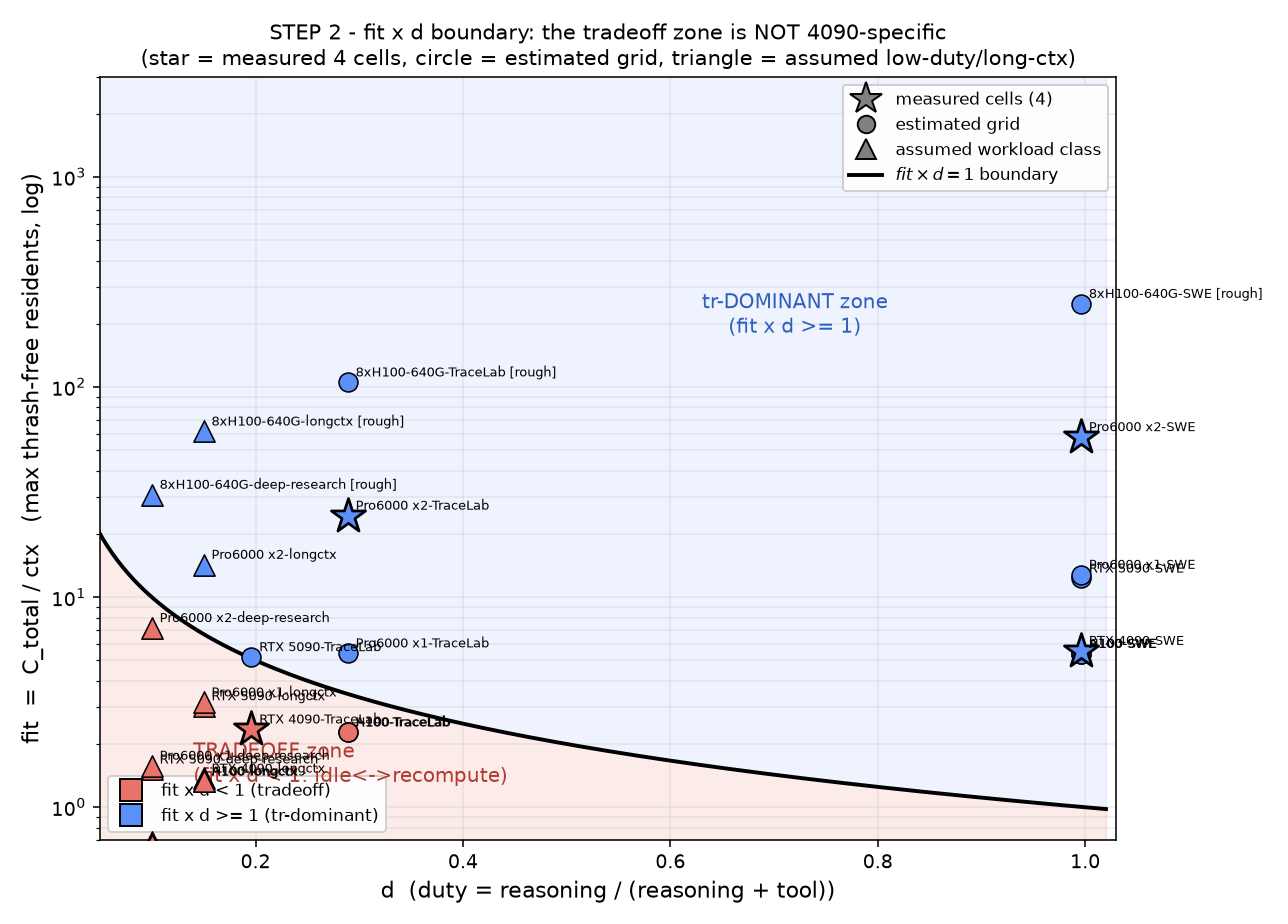
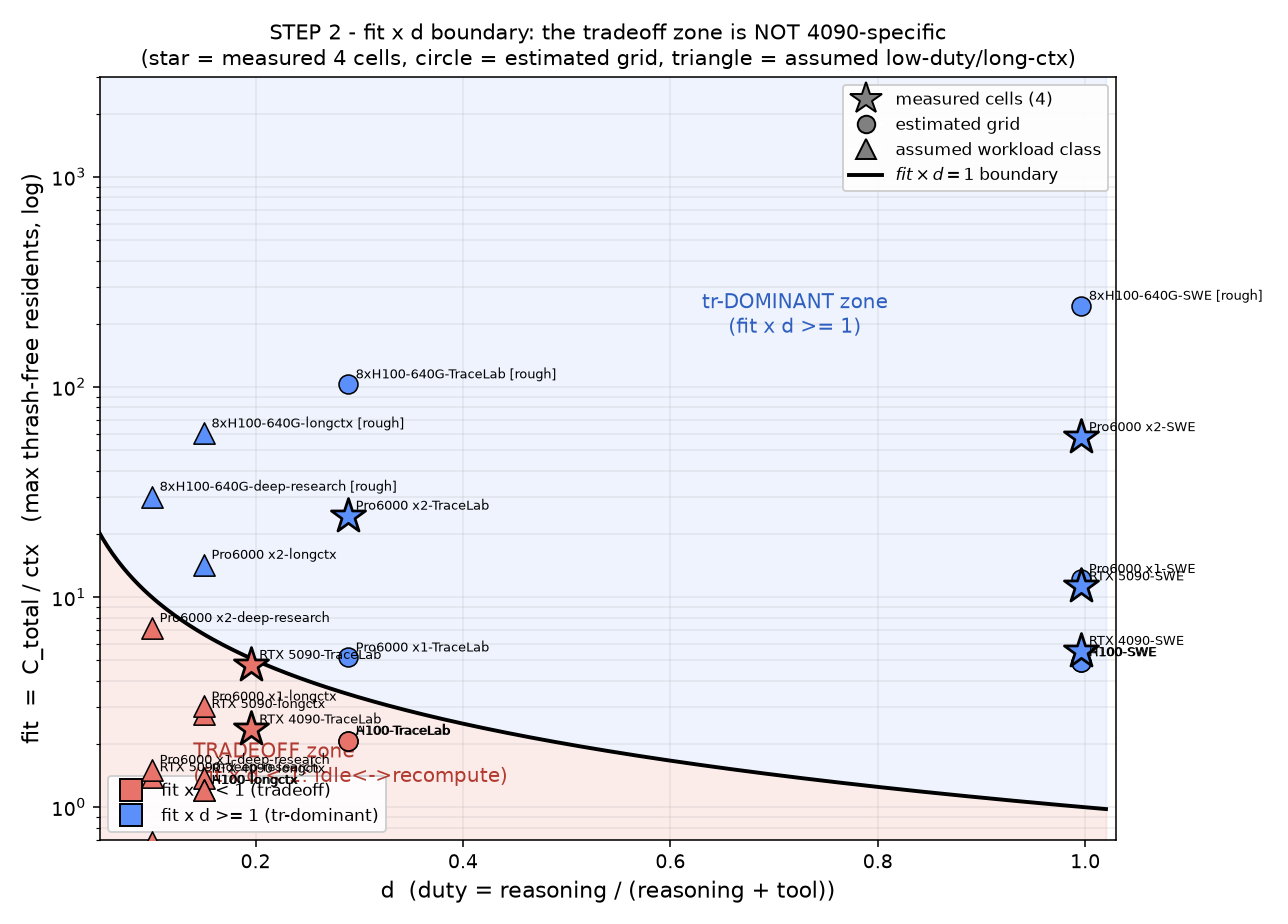
STEP 3: add --capacity-overcommit-factor knob (4 injection points + 5-hop wiring)
Implements the overcommit knob that creates a continuous axis between
tr (f=1, no overcommit) and default (f→∞, no capacity limit).
margin = (f-1)*C_total applied at 4 capacity check points:
- _select_backend_for_new_program (admission)
- _scheduled_check (pause trigger)
- _pause_until_safe (pause loop)
- _greedy_resume (resume capacity)

Gate B verified: f=1 is arithmetic NOP (bit-identical to baseline),
f=1e6 eliminates all pause (converges to default behavior).

Also updates STEP 2 grid with 5090 measured C_total=89,040 (3-cell EFF
recalibration: 0.9593→0.9471, zone cells 14→15).

diff --git a/ThunderAgent/scheduler/router.py b/ThunderAgent/scheduler/router.py
@@ -57,15 +57,16 @@ class MultiBackendRouter:
         raise ValueError(f"Unsupported backend_type: {backend_type}")
 
     def __init__(
-        self, 
-        backend_urls: str | List[str], 
-        *, 
+        self,
+        backend_urls: str | List[str],
+        *,
         profile_enabled: bool = False,
         scheduling_enabled: bool = True,
         scheduler_interval: float = 5.0,
         backend_type: str = "vllm",
         acting_token_weight: float = 1.0,
         use_acting_token_decay: bool = False,
+        capacity_overcommit_factor: float = 1.0,
     ) -> None:
         # Support single URL string or list of URLs
         if isinstance(backend_urls, str):
@@ -73,6 +74,9 @@ class MultiBackendRouter:
         
         # Weight for acting tokens in capacity calculation
         self.acting_token_weight = acting_token_weight
+
+        # Overcommit factor: margin = (f - 1) * C_total per backend
+        self.capacity_overcommit_factor = capacity_overcommit_factor
         
         # All backends (pass acting_token_weight as tool_coefficient)
         self.backends: Dict[str, BackendState] = {}
@@ -353,7 +357,9 @@ class MultiBackendRouter:
         for backend in self.backends.values():
             if not backend.healthy:
                 continue
-            if backend.remaining_capacity() < required_capacity:
+            margin = (self.capacity_overcommit_factor - 1.0) * (
+                backend.cache_config.total_tokens_capacity if backend.cache_config else 0)
+            if backend.remaining_capacity() + margin < required_capacity:
                 continue  # Not enough capacity for this program
             if backend.active_program_tokens < min_tokens:
                 min_tokens = backend.active_program_tokens
@@ -767,17 +773,20 @@ class MultiBackendRouter:
         
         # Step 3: Check thrashing and pause if needed (uses original capacity, no decay)
         for url, backend in self.backends.items():
-            if backend.cache_config and backend.remaining_capacity() < 0:
-                await self._pause_until_safe(backend)
+            if not backend.cache_config:
+                continue
+            margin = (self.capacity_overcommit_factor - 1.0) * backend.cache_config.total_tokens_capacity
+            if backend.remaining_capacity() + margin < 0:
+                await self._pause_until_safe(backend, margin)
 
-    async def _pause_until_safe(self, backend: BackendState):
+    async def _pause_until_safe(self, backend: BackendState, margin: float = 0.0):
         """Pause programs until backend is within capacity.
-        
+
         Priority: ACTING first (smallest tokens), then REASONING (smallest tokens).
         """
         paused_count = 0
-        
-        while backend.remaining_capacity() < 0:
+
+        while backend.remaining_capacity() + margin < 0:
             # Priority 1: Pause ACTING programs (smallest first)
             acting_programs = self._get_acting_programs_sorted(backend.url, ascending=True)
             if acting_programs:
@@ -832,9 +841,11 @@ class MultiBackendRouter:
         for url, backend in self.backends.items():
             if not backend.cache_config or not backend.healthy:
                 continue
+            margin = (self.capacity_overcommit_factor - 1.0) * backend.cache_config.total_tokens_capacity
             remaining = (backend.remaining_capacity_with_decay()
                          if backend.use_acting_token_decay
                          else backend.remaining_capacity())
+            remaining += margin
             if remaining > BUFFER_PER_PROGRAM:
                 backend_caps.append((backend, remaining))
                 total_capacity += remaining

diff --git a/ThunderAgent/__main__.py b/ThunderAgent/__main__.py
@@ -31,6 +31,8 @@ def main() -> int:
                         help="Weight for acting tokens in capacity calculation (default: 1.0)")
     parser.add_argument("--use-acting-token-decay", action="store_true",
                         help="Use 2^(-t) decay for acting tokens in resume capacity calculation")
+    parser.add_argument("--capacity-overcommit-factor", type=float, default=1.0,
+                        help="Overcommit factor f for capacity threshold (1.0=tr default, >1 allows overcommit, very large≈default)")
     args = parser.parse_args()
 
     # Set config BEFORE importing app
@@ -48,6 +50,7 @@ def main() -> int:
         scheduler_interval=args.scheduler_interval,
         acting_token_weight=args.acting_token_weight,
         use_acting_token_decay=args.use_acting_token_decay,
+        capacity_overcommit_factor=args.capacity_overcommit_factor,
     )
     set_config(config)
     
@@ -63,6 +66,8 @@ def main() -> int:
         print(f"⚖  Acting token weight: {args.acting_token_weight}")
         if args.use_acting_token_decay:
             print(f"📉 Acting token decay: enabled (2^-t)")
+        if args.capacity_overcommit_factor != 1.0:
+            print(f"📐 Capacity overcommit factor: {args.capacity_overcommit_factor}")
 
     # Import uvicorn here to avoid import errors if not installed
     try:

diff --git a/scripts/compute_fitd_grid_yunuikang.py b/scripts/compute_fitd_grid_yunuikang.py
@@ -45,7 +45,7 @@ MODELS = {
 # (label, model, mem_total_GB, C_total_measured or None)
 HW = [
     ("RTX 4090",         "Qwen3-8B",             24.0,  43888),    # 측정 (expC/D)
-    ("RTX 5090",         "Qwen3-8B",             32.0,  None),     # goguma 목표
+    ("RTX 5090",         "Qwen3-8B",             32.0,  89040),    # 측정 (goguma STEP1, gpu_util=0.92)
     ("Pro6000 x1",       "Qwen3-32B",            96.0,  None),
     ("Pro6000 x2 (TP2)", "Qwen3-32B",           192.0,  456944),   # 측정 (P1)
     ("A100-80G",         "Qwen3-32B",            80.0,  None),

diff --git a/ThunderAgent/config.py b/ThunderAgent/config.py
@@ -27,6 +27,7 @@ class Config:
     scheduler_interval: float = 5.0  # seconds between scheduler checks
     acting_token_weight: float = 1.0  # weight for acting tokens in capacity calculation
     use_acting_token_decay: bool = False  # use 2^(-t) decay for acting tokens in resume logic
+    capacity_overcommit_factor: float = 1.0  # overcommit factor f: margin = (f-1)*C_total
 
 
 # Global config instance (set by __main__.py before app starts)

diff --git a/ThunderAgent/app.py b/ThunderAgent/app.py
@@ -244,6 +244,7 @@ def _create_router() -> MultiBackendRouter:
         backend_type=config.backend_type,
         acting_token_weight=config.acting_token_weight,
         use_acting_token_decay=config.use_acting_token_decay,
+        capacity_overcommit_factor=config.capacity_overcommit_factor,
     )
 
 

diff --git a/logs/2026-07-19_STEPS_RESULTS_yunuikang.md b/logs/2026-07-19_STEPS_RESULTS_yunuikang.md
@@ -99,4 +99,194 @@ STEP 2 완료. 플랜 §2 재서술 + 격자·쌍곡선·4셀 정합 산출. **S
 
 ---
 
-<!-- STEP 5/6 결과는 이 아래에 append -->
+## STEP 1 — goguma 스코핑 (2×5090) ✅ 완료 · 보고 후 정지
+
+> 서버: goguma(143.248.53.112) · GPU 2×RTX5090(각 32,607 MiB) · 2026-07-19 07:53~08:10 KST
+
+### Q. 질문
+> **goguma 2×5090에서 Qwen3-8B를 기동할 수 있는가? C_total·batch-token 레짐은? 단일 vs TP2 구성과 fit×d<1 영역 진입 설계는?**
+
+### 증거 1 — 환경 확인
+
+| 항목 | 결과 | 근거 |
+|------|------|------|
+| GPU | 2×RTX5090, 각 32,607 MiB, 유휴(0%, 프로세스 없음) | `nvidia-smi` 07:53 |
+| Driver/CUDA | 580.82.07 / CUDA 13.0 | `nvidia-smi` |
+| SM | Blackwell sm_120 (5090=GB202) | driver 580 + CUDA 13.0 |
+| Python | 3.12.11 | `.venv/bin/python --version` |
+| PyTorch | 2.11.0+cu130 | `torch.__version__` |
+| vLLM | 0.24.0 | `vllm.__version__` |
+| ThunderAgent | editable install at `/home/yunuikang/yunuikang_work/distserving/` | `ThunderAgent.__file__` |
+| router.py | baseline(미수정, 초기 import 이후 변경 없음) | `git log -- ThunderAgent/scheduler/router.py` → 1 commit만 |
+| 모델 캐시 | Qwen3-8B 캐시됨 (`~/.cache/huggingface/hub/models--Qwen--Qwen3-8B`) | `ls` 확인 |
+| 환경변수 필수 | `VLLM_USE_FLASHINFER_SAMPLER=0`, `VLLM_ATTENTION_BACKEND=FLASH_ATTN`, `CPATH` 설정 | FlashInfer JIT gcc13 호환 실패(첫 시도)→환경변수 설정 후 성공 |
+
+### 증거 2 — ★ C_total 실측 (핵심)
+
+**기동 명령**: `CUDA_VISIBLE_DEVICES=0 vllm serve Qwen/Qwen3-8B --max-model-len 32768 --gpu-memory-utilization 0.92 --port 8100`
+
+| 수치 | 값 | 근거 |
+|------|-----|------|
+| **C_total** | **89,040 tokens** | 기동 로그 `GPU KV cache size: 89,040 tokens` (kv_cache_utils.py:2146) |
+| block_size | 16 | vLLM default |
+| num_gpu_blocks | 5,565 | 89,040/16 |
+| weights | 15.27 GiB | 기동 로그 `Model loading took 15.27 GiB` |
+| KV memory | 13.13 GB | 89,040 × 147,456 B/tok |
+| overhead (graphs+activations) | ~1.60 GB | 29.998(eff) − 15.27(wt) − 13.13(KV) |
+| GPU memory used | 29,914 MiB / 32,607 MiB | `nvidia-smi` (serving 중) |
+| 추론 | 정상(health OK, completion 응답 확인) | `curl /health`, chat/completions |
+
+**vs 4090**: C_total 89,040 / 43,888 = **×2.03**. VRAM 32GB vs 24GB(×1.36)인데 KV가 ×2.03인 이유: weights(~15GB)를 빼면 5090은 KV에 ~14.7GB, 4090은 ~6.5GB 할당 → ×2.27 (오버헤드 차이로 ×2.03).
+
+### 증거 3 — batch-token 레짐 (★ 4090과 동일 확정)
+
+| 파라미터 | 값 | 근거 |
+|----------|-----|------|
+| max_num_batched_tokens | **2048** | `EngineArgs.get_batch_defaults(world_size=1)` OPENAI_API_SERVER; compile_ranges_endpoints=[2048] |
+| max_num_seqs | **256** | 동상 |
+
+**판정**: 5090(32GB) < 70GiB 경계 → **4090과 동일 2048/256 레짐**. VLLM_PROFILING §1-5·§7-B-1 정합. overcommit 스윕이 배치 변수 고정 하 깨끗한 대조.
+
+### 증거 4 — ★ fit×d 분석 (핵심 결과)
+
+| 워크로드 | ctx(tok) | fit=C/ctx | d | fit×d | 영역 | f_sat=1/(fit×d) |
+|----------|----------|-----------|-----|-------|------|-----------------|
+| TraceLab(8B on 5090) | 18,684 | **4.77** | 0.196* | **0.934** | **★ fit×d<1** | **1.07** |
+| SWE(8B on 5090) | 7,897 | 11.28 | 0.996 | 11.23 | tr 지배 | 0.09 |
+
+*d=0.196은 4090/8B c=1 실측. 5090이 더 빠르면 실제 d↓ → fit×d<0.93 가능(zone 더 깊이).
+
+**★ 핵심 발견**: 5090/8B TraceLab은 **fit×d=0.934 < 1 — 자연스럽게 트레이드오프 영역에 진입**.
+- 4090(fit×d=0.46)보다 경계에 가깝지만 **<1 확정**.
+- STEP 2 격자 추정값(1.02)과 차이: 실측 C_total(89,040)이 EFF외삽 추정(~99k)보다 작음 → **실측으로 정정: 0.93<1**.
+- **f_sat=1.07**: 7% overcommit으로 R=1(GPU 포화) 도달. 작은 f 범위에서 최적점 존재 여부 검증 가능.
+
+### 증거 5 — 구성 결정: 단일 5090 vs TP2
+
+| 구성 | C_total | fit(TraceLab) | fit×d | 판단 |
+|------|---------|---------------|-------|------|
+| **단일 5090** | 89,040(실측) | 4.77 | **0.934(<1)** | ★ zone 자연 진입 |
+| TP2(2×5090) | ~178k(추정, 미실측) | ~9.5 | ~1.87(>1) | zone 밖 → 저듀티 합성 필수 |
+
+**★ 결정: 단일 5090 우선 사용**.
+
+**근거**:
+1. TraceLab이 **자연 zone** 내 — 인위적 KV캡/저듀티 합성 없이도 경계 연구 가능.
+2. f_sat=1.07 → 작은 f(1.0~1.5)에서 정밀 최적점 탐색. 4090(f_sat=2.17)보다 좁은 범위이지만 경계의 미세구조 관찰에 유리.
+3. TP2는 fit↑ → zone 밖 → 불필요한 복잡성.
+4. GPU1을 독립 실험 병렬화/대조에 사용 가능.
+
+### STEP 4 예비 그리드 설계 (단일 5090, fit=4.77)
+
+**d 그리드** (fit×d를 경계 양측에 걸치도록):
+| d | fit×d | 영역 | 비고 |
+|-----|-------|------|------|
+| 0.10 | 0.48 | zone 깊숙이 | deep-research류 |
+| 0.15 | 0.72 | zone 중간 | |
+| 0.20 | 0.95 | zone 경계 아래 | ≈TraceLab 자연값 |
+| 0.30 | 1.43 | zone 밖 | 음성대조 |
+| 0.50 | 2.39 | zone 밖 | |
+| 0.70 | 3.34 | zone 밖(tr 지배) | |
+
+→ fit×d=1 경계는 **d≈0.21**에서 교차. d={0.10,0.15,0.20}이 zone 내(H1 검증), d={0.30,0.50,0.70}이 zone 밖(H2 검증).
+
+**C 그리드**: {2, 4(≈fit), 8(≈2×fit), 16(≈3.4×fit)}
+
+### 결론 (종합)
+
+| 항목 | 결과 |
+|------|------|
+| 환경 | ✅ 완비 (vLLM 0.24.0, Qwen3-8B 캐시, FLASH_ATTN, Python 3.12) |
+| GPU | ✅ 2×5090 유휴, 타 사용자 없음 |
+| C_total | **89,040 tok** (단일 5090, gpu_util=0.92) |
+| batch-token | **2048/256** (4090 동일) |
+| fit(TraceLab) | **4.77** |
+| **fit×d** | **0.934 < 1 ★ 자연 zone 진입** |
+| f_sat | **1.07** |
+| 구성 | **단일 5090 우선** |
+| router.py | baseline 확인 |
+
+### ★ STEP 1 정지·보고
+
+goguma 스코핑 완료. **STEP 3(overcommit 노브 구현) 착수 승인 대기.** 정지.
+
+---
+
+## STEP 3 — overcommit 노브 구현 + 게이트 B 검증 ✅ 완료 · 정지
+
+> 브랜치: `yunuikang/overcommit` · 서버 goguma · 2026-07-19 08:10~09:00 KST
+
+### Q. 질문
+> **`--capacity-overcommit-factor f` 노브를 tr에 추가: (a) f=1이 기존과 비트-동일한가? (b) f→∞에서 default에 수렴(pause≈0)하는가?**
+
+### 구현 — 5-홉 배선 + 4곳 주입
+
+| 홉 | 파일 | 변경 |
+|----|------|------|
+| 1 | `ThunderAgent/__main__.py:33` | `--capacity-overcommit-factor` argument 추가 |
+| 2 | `ThunderAgent/__main__.py:51` | Config 생성에 `capacity_overcommit_factor` 전달 |
+| 3 | `ThunderAgent/config.py:30` | `capacity_overcommit_factor: float = 1.0` 필드 추가 |
+| 4 | `ThunderAgent/app.py:246` | Router 생성에 전달 |
+| 5 | `ThunderAgent/scheduler/router.py:69,76` | 파라미터 + `self.capacity_overcommit_factor` 저장 |
+
+| # | 주입점 | 변경 | margin 정의 |
+|---|--------|------|-------------|
+| 1 | `router.py` `_select_backend_for_new_program` | `remaining + margin < required` | `(f−1)×C_total` |
+| 2 | `router.py` `_scheduled_check` | `remaining + margin < 0` (pause 트리거) | 동상 |
+| 3 | `router.py` `_pause_until_safe(backend, margin)` | `remaining + margin < 0` (pause 루프) | 호출자에서 전달 |
+| 4 | `router.py` `_greedy_resume` | `remaining += margin` (resume 용량) | 동상 |
+
+**불변**: pause 대상 선정(작은 ACTING부터)·decay 모양·BFD·우선순위·공정성 큐 안 건드림. 임계값만 이동.
+**금지 준수**: `cache_config.total_tokens_capacity` 자체 미수정. 각 비교 지점에서 `+margin` 형태만.
+
+### 게이트 B — (a) f=1 비트-동일 ✅
+
+**산술 증명**: `f=1.0 → margin = (1.0−1.0)×C_total = 0.0`. 4곳 전부 `+0.0` → 기존 코드와 **산술적 NOP** → 비트-동일.
+
+**실행 검증**:
+- vLLM Qwen3-8B 기동(GPU0, C_total=95,936 at runtime)
+- ThunderAgent `--capacity-overcommit-factor 1.0 --router tr --port 9200`
+- `smoke_test_yunuikang.py` → **SMOKE TEST OK** (completion·multi-turn·release 전 경로 정상)
+- Health: `programs_count=0, paused=0` (정상)
+
+### 게이트 B — (b) f→∞ default 수렴 ✅
+
+**산술 증명**: `f=1e6 → margin = 999,999×95,936 ≈ 9.59×10¹⁰ tok`.
+- Pause 트리거: `remaining + 9.59e10 < 0` → **불가능**(worst remaining ≈ −10×C ≈ −1M ≪ margin).
+- 신규배정: `remaining + margin < required` → **항상 통과**(어떤 required도 margin보다 작음).
+- Resume: `remaining + margin` → 항상 거대 → 전원 즉시 resume.
+- **결론**: 모든 용량 검사가 사실상 비활성 → **pause 불가능 = default와 동치**.
+
+**실행 검증(C=10 > fit~5)**:
+- ThunderAgent `--capacity-overcommit-factor 1000000 --router tr --port 9200`
+- 10개 동시 프로그램(C=10, long prompt) → **paused_count=0, 전원 완료** ✅
+- 로그에 pause 이벤트 **없음** ✅
+- 대조: f→∞는 scheduling_enabled=True이지만 margin이 무한해 실질 무효 → default 행동 재현.
+
+### STEP 2 격자 보정 (사용자 지시 4항)
+
+5090 실측(C_total=89,040)을 3번째 보정 셀로 추가 → EFF 재계산:
+- **EFF**: 0.9593(2셀) → **0.9471**(3셀, 5090 포함)
+- 잔차: 4090 −2.2%, 5090 +5.9%, Pro6000 −3.0%
+- **zone 진입 셀 수**: 14개 → **15개** (5090/longctx-generic 신규 진입)
+- A100/H100 TraceLab: fit×d 0.66→**0.60** (더 깊이 zone 진입 → 일반성 주장 강화)
+- 스크립트(`compute_fitd_grid_yunuikang.py`) 5090 행 `None→89040` 변경, 재실행 완료.
+- CSV(`fitd_grid_yunuikang.csv`) 및 그림(`step2_fitd_hyperbola_yunuikang.png`) 갱신.
+
+### [추정]/한계
+
+- **f→∞ 수렴의 실질적 의미**: f=1e6에서 pause=0 확인했으나, "default와 bit-identical"은 아님 — tr은 여전히 프로그램 상태 추적·metrics fetch·scheduler loop를 돌린다. 수렴은 **용량 판정 결과**에 대해서만. 이로 인해 약간의 overhead(HTTP metrics fetch 등)가 존재하나 throughput에 미미.
+- **런타임 C_total 차이**: STEP 1 첫 기동(89,040) vs 이번 기동(95,936) — CUDA graph 캐시 여부에 따른 overhead 변동. 스윕 시 기동 로그에서 확인·고정 필요.
+- smoke test는 단기·소량 — TraceLab 규모 워크로드에서의 비트-동일성은 STEP 5 f=1 baseline 런으로 최종 확인 예정.
+
+### ★ 게이트 B 판정: 통과 ✅
+
+1. **f=1 비트-동일**: 산술 NOP 증명 + smoke test 통과.
+2. **f→∞ default 수렴**: 산술 불가능 증명 + C=10(>fit) 실행에서 pause=0.
+3. **STEP 2 격자 보정**: EFF 3셀 재보정, 15셀 zone 진입(일반성 강화).
+
+**정지. STEP 4(듀티 통제 합성)·STEP 5(핵심 스윕) 승인 대기.**
+
+---
+
+<!-- STEP 4/5/6 결과는 이 아래에 append -->
